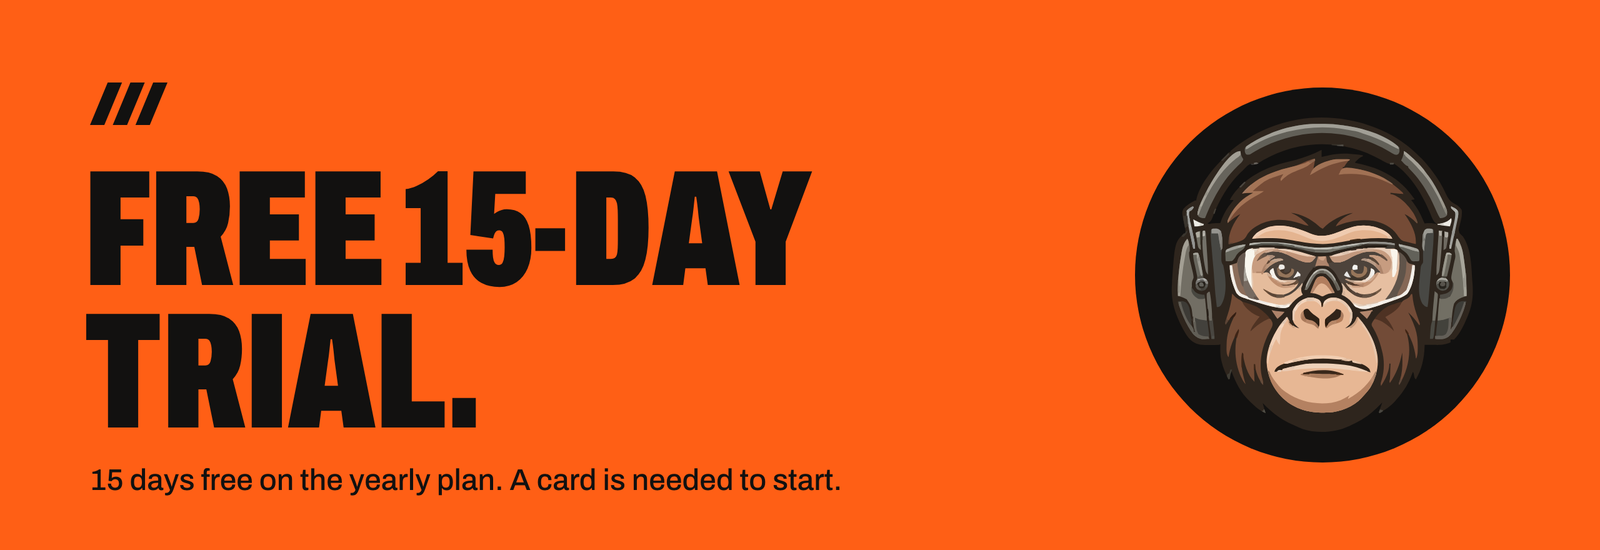
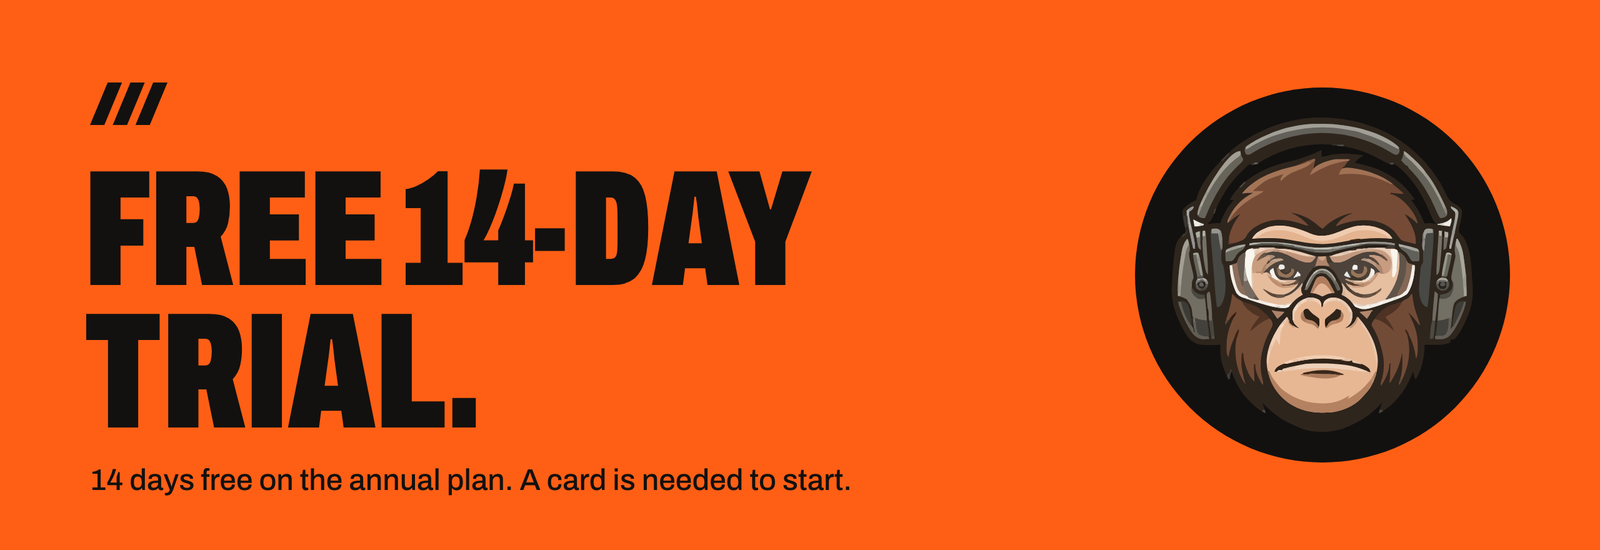
The free trial is 14 days
The trial picture and its alt text, rebuilt from the brand repo's script.

Changed region(s): [[0.0625, 0.8345, 0.5312, 0.8964], [0.2812, 0.3091, 0.3438, 0.5255], [0.375, 0.4018, 0.4062, 0.4327]]

diff --git a/profile/README.md b/profile/README.md
@@ -96,7 +96,7 @@ Neither. Flat monthly or yearly, cancel from your own billing screen. We take no
 
 <br>
 
-<a href="https://fflmonkey.com/products"><img src="trial.png" alt="Free 15-day trial. 15 days free on the yearly plan. A card is needed to start." width="100%"></a>
+<a href="https://fflmonkey.com/products"><img src="trial.png" alt="Free 14-day trial. 14 days free on the annual plan. A card is needed to start." width="100%"></a>
 
 <p align="center">
   <a href="https://fflmonkey.com">fflmonkey.com</a>
